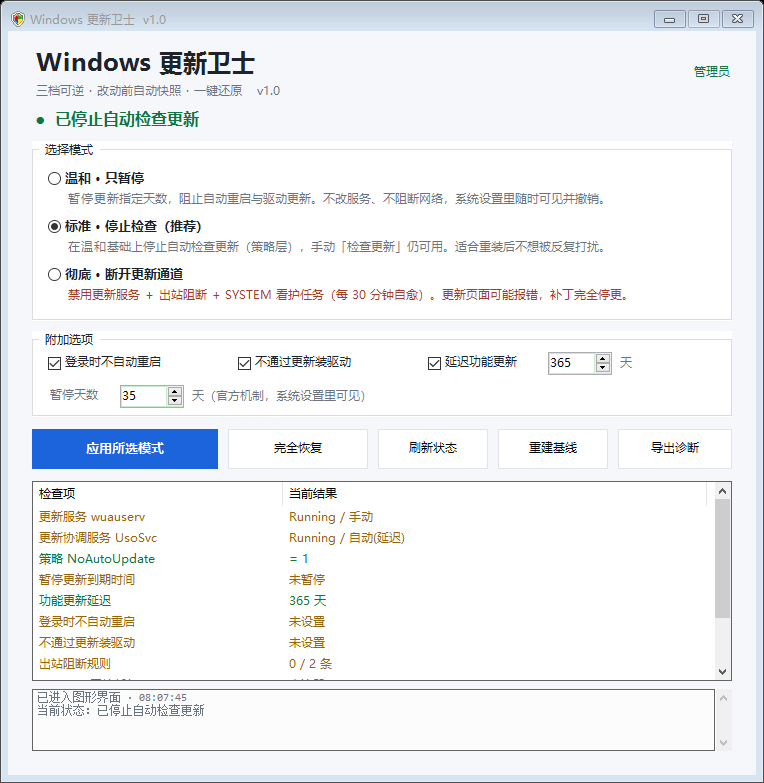
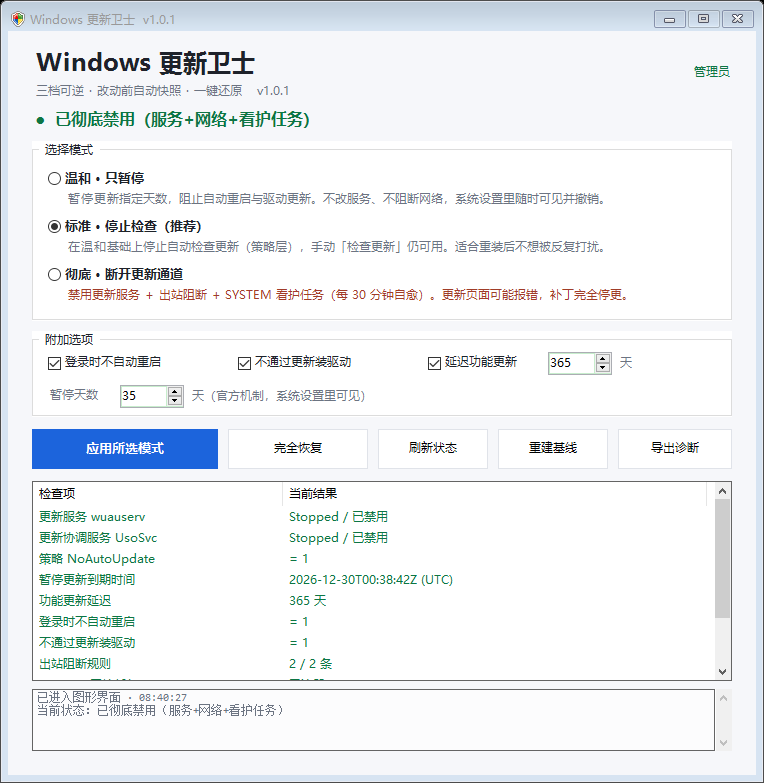
fix: 看护任务幂等化，避免每 30 分钟重建自身
- -Enforce 时任务已存在则跳过重建，避免触发器被反复重置
- 防火墙规则已存在则跳过，不再每 30 分钟删一次建一次
- 服务已是禁用状态时不再重复 sc config
- 脚本副本改为每次覆盖，升级后看护任务自动跑新版
- README 新增「SYSTEM 看护任务」章节：触发器、身份、执行内容、如何停用

diff --git a/README.md b/README.md
@@ -75,6 +75,53 @@
 
 ---
 
+## 「SYSTEM 看护任务」到底在干什么
+
+彻底档会注册一个计划任务，这是本工具唯一**长期驻留**的东西，单独说明：
+
+| 项 | 值 |
+|---|---|
+| 任务名 | `WinUpdateGuard Keep`（任务计划程序根目录） |
+| 运行身份 | `SYSTEM`（`S-1-5-18`），最高权限 |
+| 触发器 | 开机时、任意用户登录时、每 30 分钟一次 |
+| 执行内容 | `powershell.exe -NoProfile -NonInteractive -WindowStyle Hidden -ExecutionPolicy Bypass -File "C:\ProgramData\WinUpdateGuard\WinUpdateGuard.ps1" -Enforce` |
+| 超时 / 电源 | 10 分钟；电池供电也运行，切到电池不中止 |
+| 界面 | 完全隐藏，无窗口、无托盘图标 |
+
+每次触发只做一件事：**读快照里记录的模式，把当前档位重新刷一遍**。
+
+1. 刷新「暂停更新」的到期时间（保持在 N 天之后，不会自己过期）
+2. 检查并写回 `NoAutoUpdate` / `NoAutoRebootWithLoggedOnUsers` / `ExcludeWUDriversInQualityUpdate`
+3. 若 `wuauserv`、`UsoSvc` 被系统改回自动，重新设为禁用并停止（已经是禁用就跳过）
+4. 若两条出站阻断规则被删，补回去（已存在则跳过，不重建）
+5. 若任务自身被删，重建（已存在则跳过，不重置触发器）
+
+**它不做什么**：不联网、不下载、不收集任何信息、不常驻进程、不碰系统自带的更新任务。
+
+### 为什么需要它
+
+Windows 有三套自愈机制会把设置改回去：`WaaSMedicSvc`（更新医生服务）、`UpdateOrchestrator` 下的计划任务、以及系统大版本升级时的策略重置。尤其"禁用服务"这一手，很容易被 `WaaSMedicSvc` 在下次扫描时修回来。看护任务就是用来抵消这个"被改回去"的动作。
+
+### 怎么确认它在跑
+
+```powershell
+# 上次/下次运行时间、上次结果（0 = 成功）
+Get-ScheduledTask -TaskName "WinUpdateGuard Keep" | Get-ScheduledTaskInfo
+
+# 看它每次具体做了什么
+Get-Content "C:\ProgramData\WinUpdateGuard\logs\guard-$(Get-Date -f yyyyMMdd).log"
+```
+
+### 怎么停掉它
+
+- 界面点「完全恢复」（会一并删任务、删防火墙规则、按快照还原策略），或
+- `.\WinUpdateGuard.ps1 -Restore -Yes`，或
+- 手动：`Unregister-ScheduledTask -TaskName "WinUpdateGuard Keep" -Confirm:$false`
+
+> 看护任务依赖 `C:\ProgramData\WinUpdateGuard\` 下的脚本副本和快照，该目录被 `icacls` 收紧到只有 SYSTEM 和 Administrators 可写。**删掉整个目录，任务会空转（什么都不做），但任务本身还在**，需要按上面的方法删任务。
+
+---
+
 ## 快照与回滚
 
 首次应用时会在 `C:\ProgramData\WinUpdateGuard\snapshots\` 生成一份 `.ini` 快照：
